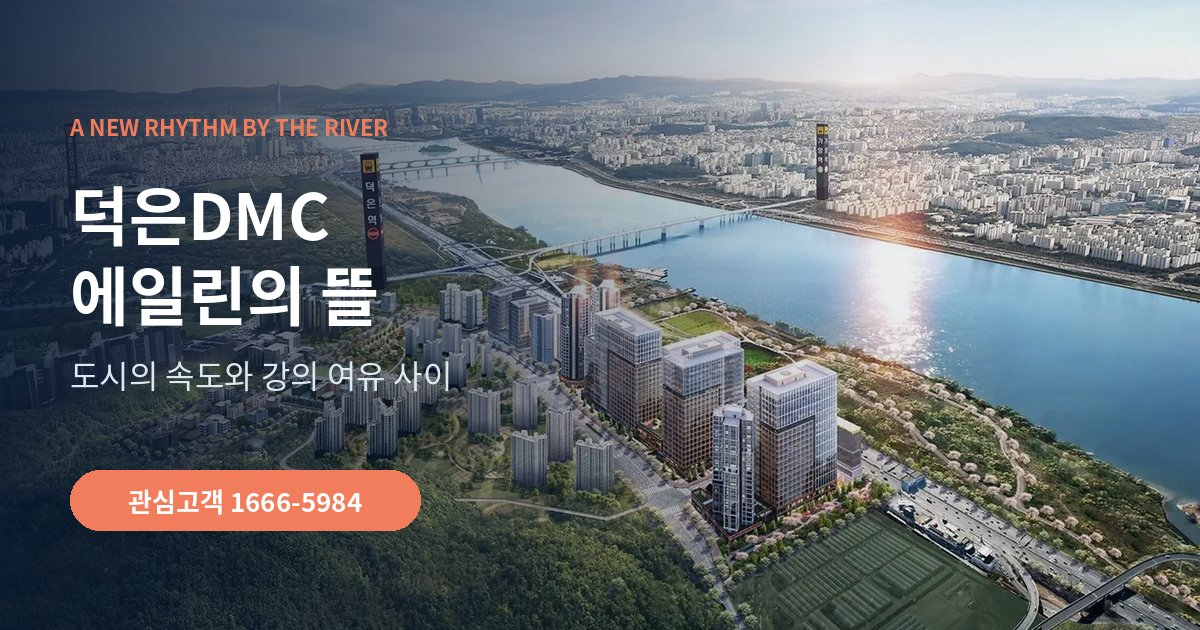
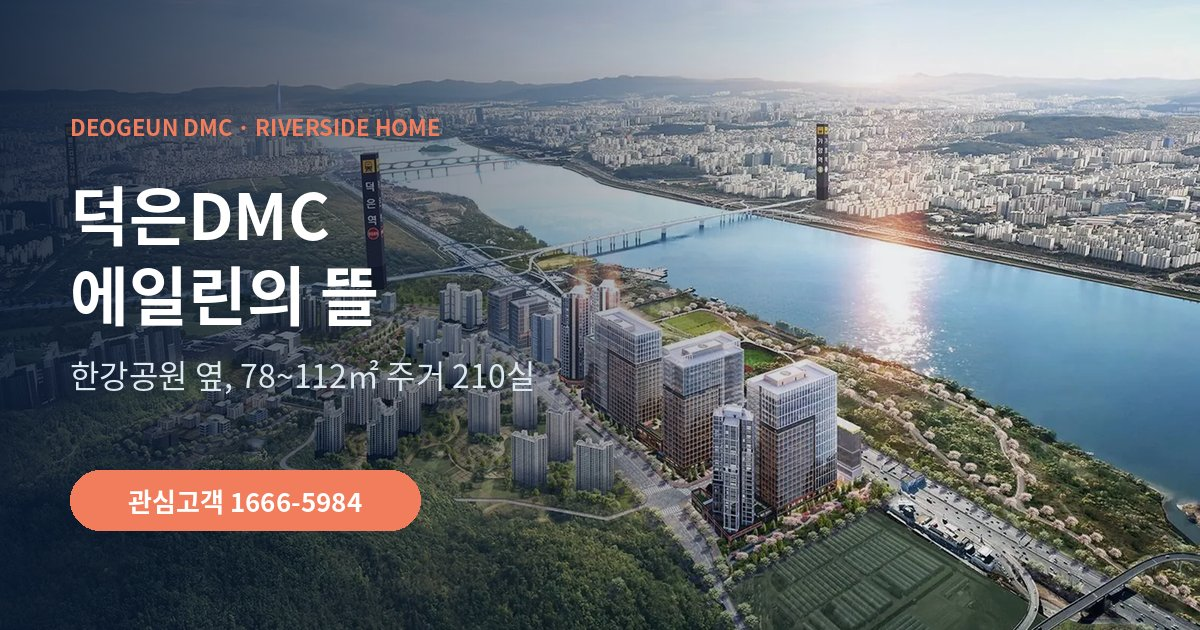
주거동 중심으로 문구 재작성: 슬로건·추상 표현을 호실 수, 타입, 커뮤니티, 교통 계획 등 자료 근거 사실로 교체
Claude-Session: https://claude.ai/code/session_01JYaFjUtvZDuWTi2QhMnf1a

Changed region(s): [[0.0617, 0.573, 0.4625, 0.6333], [0.0617, 0.181, 0.37, 0.2413]]

diff --git a/index.html b/index.html
@@ -3,9 +3,9 @@
 <head>
   <meta charset="utf-8">
   <meta name="viewport" content="width=device-width,initial-scale=1">
-  <meta name="description" content="덕은DMC 에일린의 뜰 — 한강 앞에서 만나는 새로운 주거 일상">
+  <meta name="description" content="덕은DMC 에일린의 뜰 — 한강공원 옆 주거동 3개 동, 78~112㎡ 210실">
   <meta property="og:title" content="덕은DMC 에일린의 뜰">
-  <meta property="og:description" content="한강 앞에서 만나는 새로운 주거 일상">
+  <meta property="og:description" content="한강공원 옆 주거동 3개 동, 78~112㎡ 210실 · 관심고객 1666-5984">
   <meta property="og:image" content="https://wanjunsim3-droid.github.io/isbiz/og-image.jpg"><meta property="og:image:width" content="1200"><meta property="og:image:height" content="630"><meta property="og:url" content="https://wanjunsim3-droid.github.io/isbiz/"><meta property="og:site_name" content="덕은DMC 에일린의 뜰"><meta property="og:locale" content="ko_KR"><meta name="twitter:card" content="summary_large_image"><meta name="twitter:image" content="https://wanjunsim3-droid.github.io/isbiz/og-image.jpg"><meta name="theme-color" content="#0a1930"><link rel="canonical" href="https://wanjunsim3-droid.github.io/isbiz/"><link rel="icon" href="favicon.ico" sizes="48x48"><link rel="icon" href="favicon.png" type="image/png"><link rel="apple-touch-icon" href="apple-touch-icon.png">
   <meta property="og:type" content="website">
   <title>덕은DMC 에일린의 뜰</title>
@@ -27,41 +27,41 @@
       <img src="1783400530_2.슬라이드메인02.webp" alt="한강과 주변 도시를 조망한 프로젝트 광역 이미지" width="1600" height="926" fetchpriority="high">
       <div class="hero-shade"></div>
       <div class="hero-content">
-        <p class="eyebrow">A NEW RHYTHM BY THE RIVER</p>
-        <h1 id="hero-title">도시의 속도와<br><em>강의 여유</em> 사이</h1>
-        <p class="hero-copy">나서는 길은 가볍게, 돌아오는 집은 편안하게.<br>한강 가까이에서 만나는 덕은DMC 에일린의 뜰입니다.</p>
-        <div class="hero-actions"><a class="button primary" href="#story">둘러보기</a><a class="button ghost" href="#contact">소식 받기</a></div>
+        <p class="eyebrow">DEOGEUN DMC · RIVERSIDE HOME</p>
+        <h1 id="hero-title">한강공원 옆,<br><em>78~112㎡ 주거 210실</em></h1>
+        <p class="hero-copy">덕은도시개발지구 복합단지의 주거동입니다.<br>리버파크 브릿지로 자유로를 건너 한강공원에 닿습니다.</p>
+        <div class="hero-actions"><a class="button primary" href="#types">타입 보기</a><a class="button ghost" href="#contact">관심 등록</a></div>
       </div>
       <div class="hero-index" aria-hidden="true"><span>01</span><i></i><span>04</span></div>
     </section>
 
     <section id="story" class="intro section-pad">
-      <div><p class="section-label">PROJECT STORY</p><h2>하루의 장면이<br>달라지는 곳</h2></div>
-      <div class="intro-copy"><p>아침에 들어오는 빛, 집으로 돌아오는 길, 잠깐 쉬어 가는 정원. 하루의 동선을 따라 공간을 이어 구성했습니다.</p><p class="disclaimer">※ 본 페이지는 참고용 시안입니다. 확정된 사업 정보와 수치는 공식 자료를 확인해 주세요.</p></div>
+      <div><p class="section-label">PROJECT</p><h2>복합단지 안의<br>주거동 3개 동</h2></div>
+      <div class="intro-copy"><p>에일린의 뜰은 지식산업센터와 함께 들어서는 덕은지구 복합단지입니다. 이 가운데 8·9블록 101·102동과 10블록 101동이 주거동이고, 피트니스와 G.X룸 같은 커뮤니티 시설을 함께 씁니다.</p><p class="disclaimer">※ 사업 내용은 인허가 과정에서 변경될 수 있습니다. 계약 전 최신 공식 자료를 확인해 주세요.</p></div>
     </section>
 
     <section class="stats" aria-label="프로젝트 핵심 가치">
-      <article><strong>RIVER</strong><span>수변의 여유를 가까이</span></article>
-      <article><strong>LINK</strong><span>도시 주요 거점과 연결</span></article>
-      <article><strong>HOME</strong><span>생활을 배려한 공간 구성</span></article>
+      <article><strong>210실</strong><span>주거동 3개 동 총 호실</span></article>
+      <article><strong>78~112㎡</strong><span>5가지 타입 구성</span></article>
+      <article><strong>2030년</strong><span>대장-홍대선 덕은역 개통 예정</span></article>
     </section>
 
     <section class="project-visual" aria-label="프로젝트 전경">
       <img src="1783405571서브탑이미지.webp" alt="한강변 프로젝트 건축 전경" width="1900" height="400" loading="lazy" decoding="async">
-      <div><p class="section-label light">RIVERFRONT LANDMARK</p><h2>강을 따라 이어지는<br>새로운 스카이라인</h2></div>
+      <div><p class="section-label light">RIVERFRONT</p><h2>한강을 마주 보는<br>덕은지구 단지</h2></div>
     </section>
 
     <section id="places" class="places section-pad">
-      <div class="places-head"><div><p class="section-label">LIFE SCENES</p><h2>집 밖까지 이어지는<br>생활의 반경</h2></div><p>눈에 띄는 시설보다 날마다 쓰는 공간을 먼저 생각했습니다.</p></div>
+      <div class="places-head"><div><p class="section-label">LIFE</p><h2>집 가까이에<br>있는 것들</h2></div><p>운동은 단지 커뮤니티에서, 산책은 한강공원에서 할 수 있습니다.</p></div>
       <div class="scene-grid">
-        <article class="scene scene-large"><div class="scene-art art-one"></div><span>01</span><h3>리버 프론트</h3><p>강과 도시를 한눈에 조망하는 입지</p></article>
-        <article class="scene"><div class="scene-art art-two"></div><span>02</span><h3>커뮤니티</h3><p>운동과 취미, 휴식을 담은 공용 공간</p></article>
-        <article class="scene"><div class="scene-art art-three"></div><span>03</span><h3>도시 연결</h3><p>주요 생활권과 이어지는 교통 환경</p></article>
+        <article class="scene scene-large"><div class="scene-art art-one"></div><span>01</span><h3>한강공원</h3><p>리버파크 브릿지로 자유로를 건너 바로 연결</p></article>
+        <article class="scene"><div class="scene-art art-two"></div><span>02</span><h3>커뮤니티</h3><p>피트니스, G.X룸, 샤워실, 코인세탁실, 취미실</p></article>
+        <article class="scene"><div class="scene-art art-three"></div><span>03</span><h3>교통</h3><p>대장-홍대선 덕은역 2030년 개통 예정, 강변북로 지하화 계획</p></article>
       </div>
     </section>
 
     <section class="gallery section-pad" aria-labelledby="gallery-title">
-      <div class="gallery-title"><p class="section-label">SPACE GALLERY</p><h2 id="gallery-title">공간을 미리<br>살펴보세요</h2><p>공간 이미지를 모았습니다.</p></div>
+      <div class="gallery-title"><p class="section-label">MATERIALS</p><h2 id="gallery-title">단지 전경과<br>입지 자료</h2><p>업무지구 위치, 한강공원 연결, 교통 계획을 정리한 자료입니다.</p></div>
       <div class="gallery-track">
         <figure><img src="1783405256_1.00.webp" alt="덕은DMC 에일린의 뜰 단지 전경과 복합시설 구성(주거·업무·상가)" width="1300" height="800" loading="lazy" decoding="async"><figcaption>단지 전경</figcaption></figure>
         <figure><img src="1783405256_2.01.webp" alt="상암·마곡·여의도를 잇는 업무지구 위치도" width="1300" height="800" loading="lazy" decoding="async"><figcaption>업무지구 접근</figcaption></figure>
@@ -71,18 +71,18 @@
       </div>
     </section>
 
-    <section class="overview section-pad" aria-labelledby="overview-title">
-      <div class="overview-copy"><p class="section-label">PROJECT OVERVIEW</p><h2 id="overview-title">한눈에 보는<br>프로젝트 구성</h2><p>건물 배치와 타입별 정보를 이미지로 볼 수 있습니다. 계약 전에는 최신 공식 자료를 꼭 확인해 주세요.</p></div>
+    <section id="types" class="overview section-pad" aria-labelledby="overview-title">
+      <div class="overview-copy"><p class="section-label">TYPES</p><h2 id="overview-title">동별 타입과<br>호실 구성</h2><p>8·9블록 101동과 102동은 78·84·112㎡ 타입이 동마다 72실, 10블록 101동은 78·84A·84B㎡ 타입이 66실입니다. 계약 전에는 최신 공식 자료를 꼭 확인해 주세요.</p></div>
       <div class="overview-images"><img src="1783401132_1.사업개요.webp" alt="강변 프로젝트 건물 배치 조감도" width="1300" height="800" loading="lazy" decoding="async"><img src="1783401680_2.사업개요1.webp" alt="동별 타입과 면적 안내표" width="1300" height="1700" loading="lazy" decoding="async"></div>
     </section>
 
     <section id="location" class="location section-pad">
       <div class="map-art location-photo"><img src="1783405372_1.관심고객등록.webp" alt="한강과 주변 생활권을 보여주는 광역 조감도" width="1300" height="800" loading="lazy" decoding="async"></div>
-      <div class="location-copy"><p class="section-label light">LOCATION</p><h2>생활의 중심과<br>가까운 곳</h2><p>덕은도시개발지구에서 상암·마곡·여의도 업무지구로 이어지고, 한강공원을 생활권으로 누리는 자리입니다. 교통 계획은 관계기관 일정에 따라 변경될 수 있습니다.</p><ul><li><span>01</span> 상암·마곡·여의도 업무지구 접근</li><li><span>02</span> 리버파크 브릿지로 한강공원 연결</li><li><span>03</span> 대장-홍대선 덕은역 (2030년 개통 예정)</li></ul></div>
+      <div class="location-copy"><p class="section-label light">LOCATION</p><h2>업무지구와<br>한강공원 사이</h2><p>덕은도시개발지구에서 상암·마곡·여의도 업무지구로 이어지고, 한강공원을 생활권으로 누리는 자리입니다. 교통 계획은 관계기관 일정에 따라 변경될 수 있습니다.</p><ul><li><span>01</span> 상암·마곡·여의도 업무지구 접근</li><li><span>02</span> 리버파크 브릿지로 한강공원 연결</li><li><span>03</span> 대장-홍대선 덕은역 (2030년 개통 예정)</li></ul></div>
     </section>
 
     <section id="contact" class="contact section-pad">
-      <div><p class="section-label">STAY INFORMED</p><h2>새 소식을<br>가장 먼저 받아보세요</h2><p>이름과 연락처를 남기시면 프로젝트 소식과 상담 일정을 안내해 드립니다.</p></div>
+      <div><p class="section-label">CONTACT</p><h2>관심 고객<br>등록</h2><p>이름과 연락처를 남기시면 분양 일정과 상담 가능한 시간을 연락드립니다.</p></div>
       <form id="interest-form"><label>이름<input name="name" autocomplete="name" placeholder="이름을 입력하세요" required></label><label>연락처<input name="phone" inputmode="tel" autocomplete="tel" placeholder="010-0000-0000" required></label><input type="text" name="_honey" tabindex="-1" autocomplete="off" aria-hidden="true" style="position:absolute;left:-9999px;opacity:0"><details class="consent"><summary>개인정보 수집·이용 안내 보기</summary><ul><li>수집 항목: 이름, 연락처</li><li>이용 목적: 관심 고객 등록, 분양 소식 및 상담 일정 안내</li><li>보유 기간: 등록일로부터 1년 또는 동의 철회 시까지</li><li>전송 위탁: FormSubmit(formsubmit.co)을 통해 운영 담당자 이메일로 전달</li><li>동의를 거부할 수 있으며, 이 경우 관심 고객 등록이 제한됩니다. 대표번호 1666-5984로 전화 상담은 가능합니다.</li></ul><a href="privacy.html" target="_blank" rel="noopener">개인정보처리방침 전문 보기</a></details><label class="agree"><input type="checkbox" required> 개인정보 수집 및 이용에 동의합니다. (필수)</label><button class="button primary" type="submit">관심 고객 등록</button><p id="form-message" role="status"></p></form>
     </section>
   </main>
